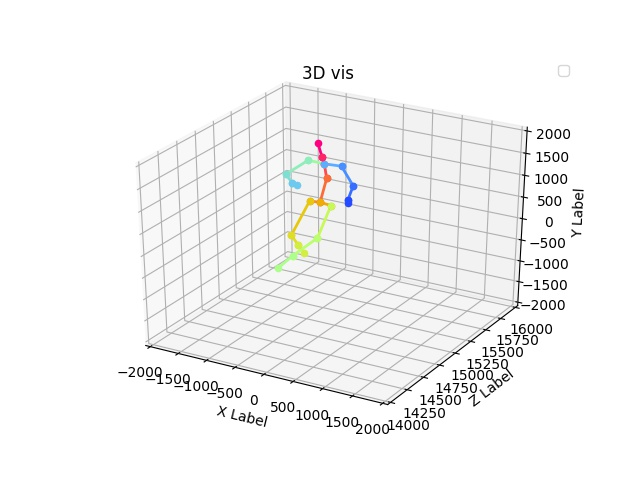
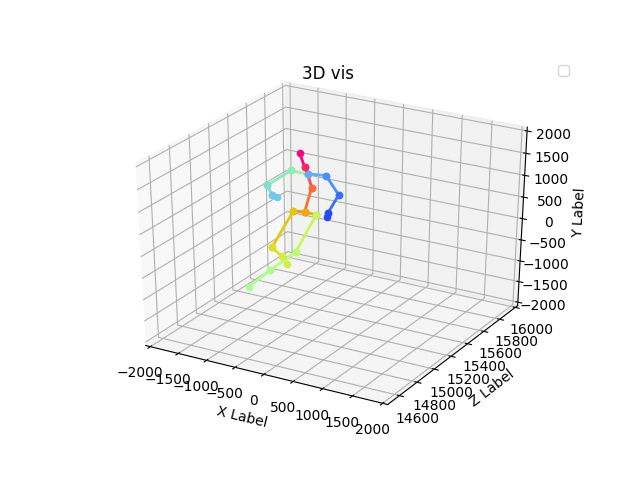
debug

Changed region(s): [[0.2188, 0.2188, 0.8438, 0.9062]]

diff --git a/vis.py b/vis.py
@@ -47,7 +47,7 @@ def visualize(image, preds):
         ax.set_ylabel('Z Label')
         ax.set_zlabel('Y Label')
         ax.set_xlim([-2000,2000])
-        ax.set_ylim([14500,16000])
+        ax.set_ylim([14500,18500])
         ax.set_zlim([-2000,2000])
         ax.legend()
         plt.savefig("output.jpg")
